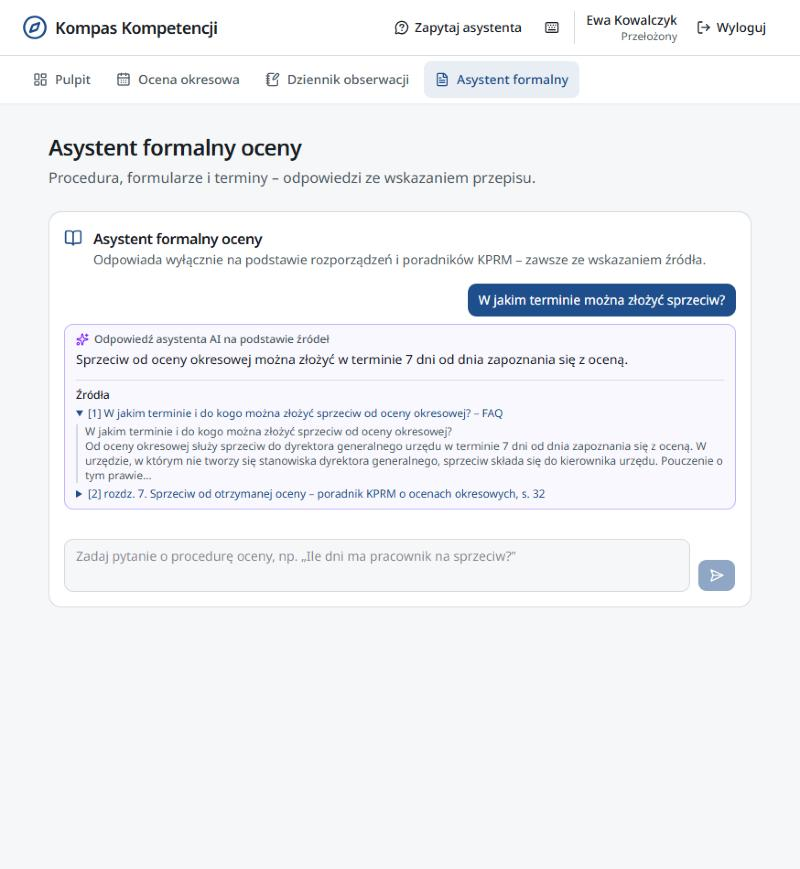
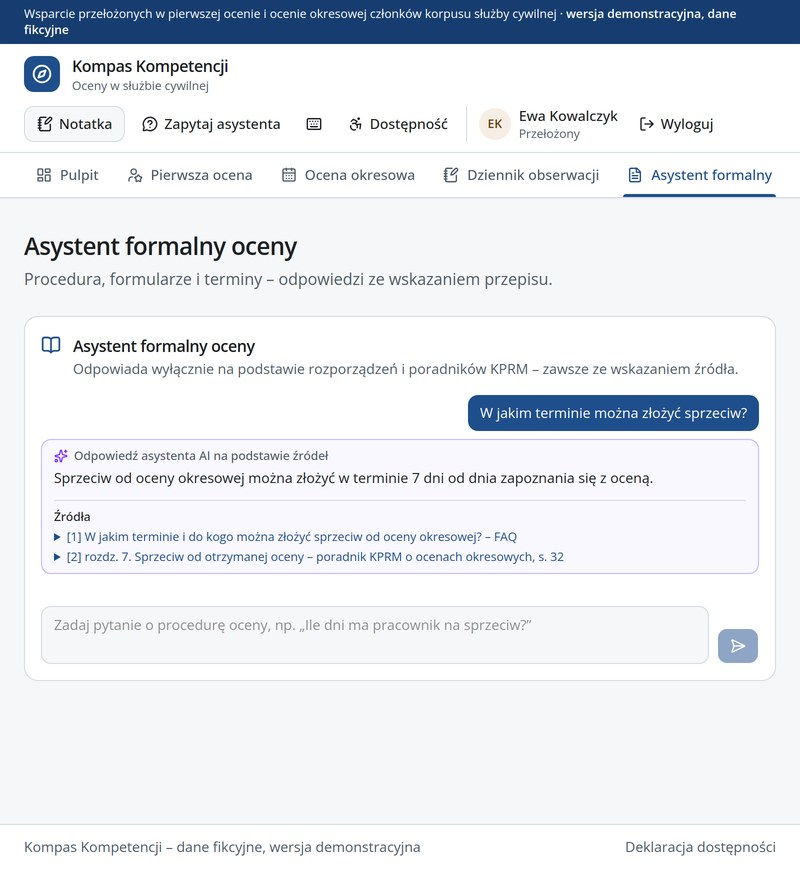
docs: prezentacja, film i zespół w README, zrzut asystenta w nowym wyglądzie

diff --git a/README.md b/README.md
@@ -19,6 +19,15 @@ Rozwiązanie zadania Ministerstwa Cyfryzacji (Biuro Dyrektora Generalnego) „Ko
 
 Scenariusz krok po kroku dla jury (ok. 12 minut): **[`docs/DEMO.md`](docs/DEMO.md)**.
 
+## Prezentacja i film
+
+- **Prezentacja (10 slajdów, wersja animowana w przeglądarce):** https://papaya-concha-2cc565.netlify.app – strzałki ← → przełączają slajdy, klawisz F włącza pełny ekran.
+- **Film z demo:** https://www.youtube.com/watch?v=mNXQ7QiIoWw
+
+## Zespół
+
+**SKNSI MoAI** – Zuzanna Marciniak, Nadia Klimek, Jakub Goleman, Kacper Gałan, Kamil Utkowski, Bartosz Tymochowicz.
+
 ## Dla jury
 
 ### Sprawdzenie w 5 minut
